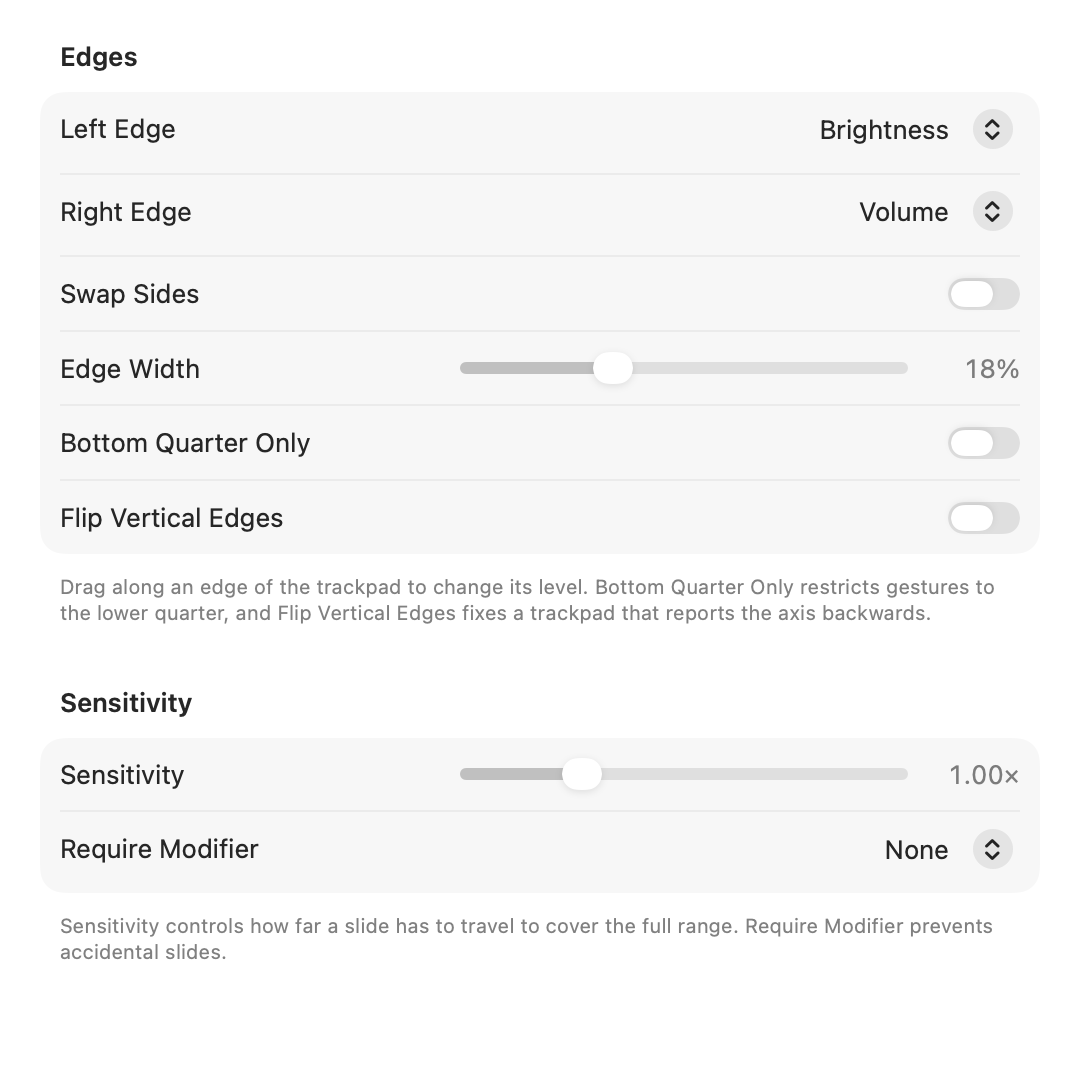
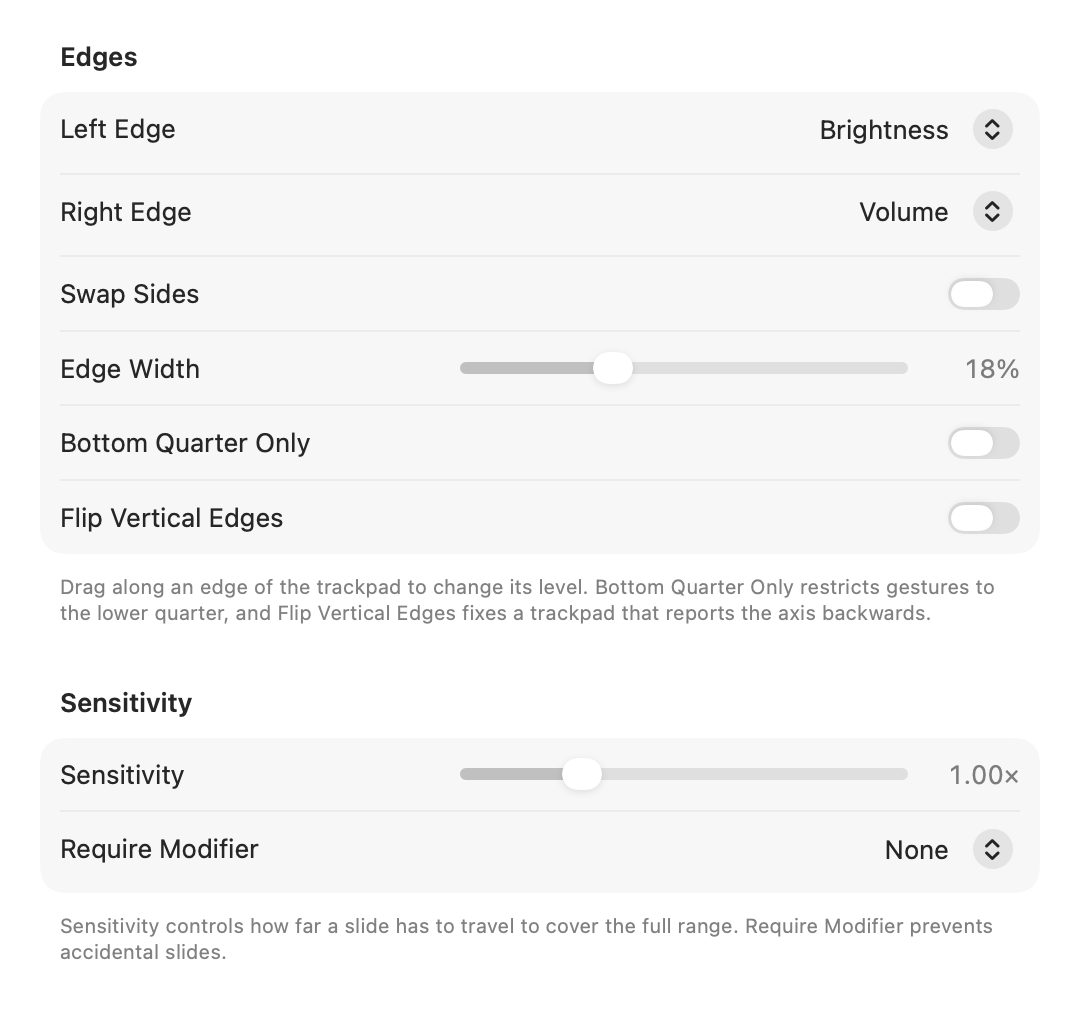
Allow the update path to be tested against a copy
installTargetURL and checkForUpdate(comparingTo:) let a test point the updater
at a temporary bundle instead of the running app; used to verify the swap, the
checksum and the relaunch end to end.

diff --git a/Sources/SlideSenseCore/System/UpdateController.swift b/Sources/SlideSenseCore/System/UpdateController.swift
@@ -91,10 +91,14 @@ public final class UpdateController {
         SlideSenseVersion.marketing
     }
 
+    /// Overrides the bundle that gets replaced. Only used by tests, which
+    /// install into a temporary copy instead of the running app.
+    public var installTargetURL: URL?
+
     // MARK: - Checking
 
     /// Returns the newest release if it is newer than the running app.
-    public func checkForUpdate() async throws -> UpdateRelease? {
+    public func checkForUpdate(comparingTo versionOverride: String? = nil) async throws -> UpdateRelease? {
         guard let url = URL(string: "https://api.github.com/repos/\(repository)/releases/latest") else {
             throw UpdateError.malformedRelease
         }
@@ -111,7 +115,8 @@ public final class UpdateController {
         else { throw UpdateError.malformedRelease }
 
         let version = tag.hasPrefix("v") ? String(tag.dropFirst()) : tag
-        guard UpdateVersion.isNewer(version, than: currentVersion) else { return nil }
+        let running = versionOverride ?? currentVersion
+        guard UpdateVersion.isNewer(version, than: running) else { return nil }
 
         let assets = json["assets"] as? [[String: Any]] ?? []
         guard
@@ -179,7 +184,7 @@ public final class UpdateController {
 
     /// Swaps the new bundle in after this process exits, then relaunches it.
     public func install(_ newApp: URL) throws {
-        let target = Bundle.main.bundleURL
+        let target = installTargetURL ?? Bundle.main.bundleURL
         let parent = target.deletingLastPathComponent()
         guard FileManager.default.isWritableFile(atPath: parent.path) else {
             throw UpdateError.notWritable(parent.path)
